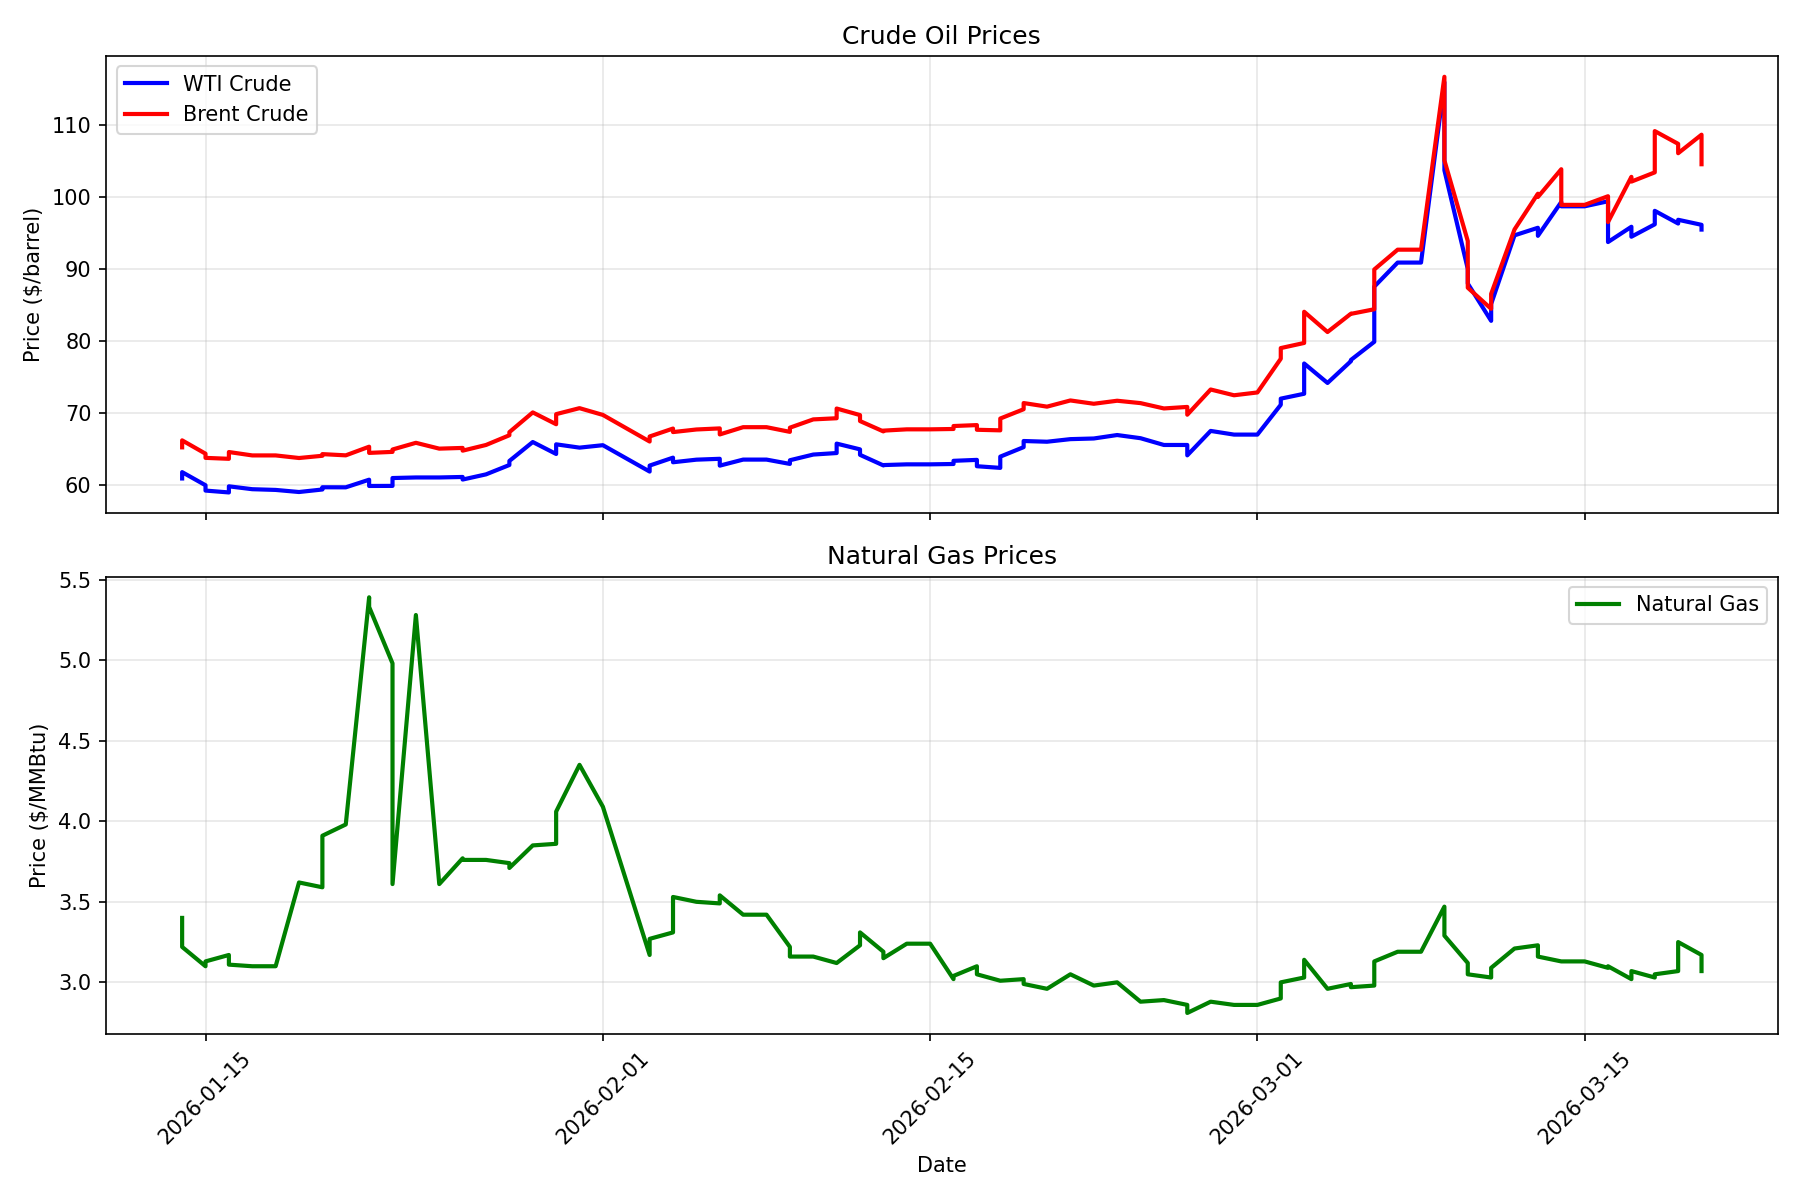
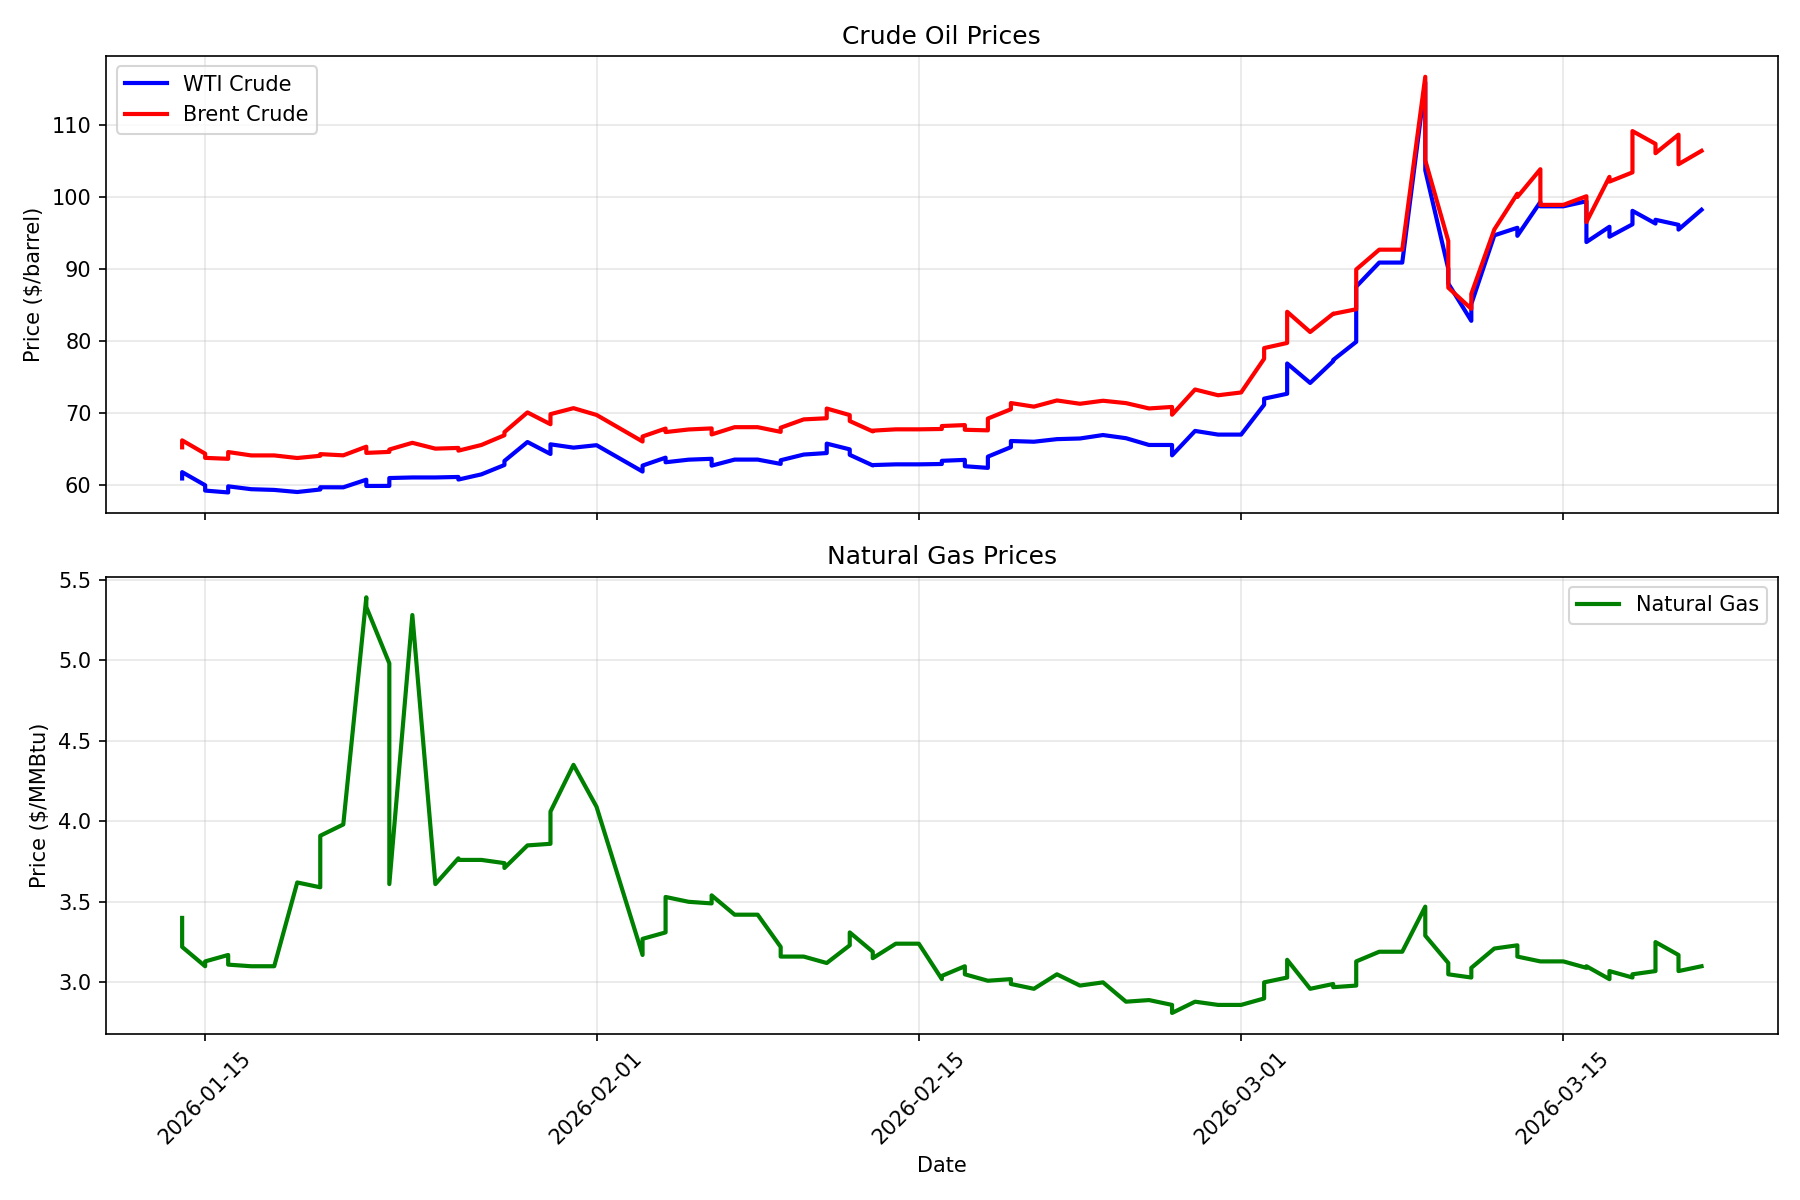
Daily price update: 2026-03-21

diff --git a/README.md b/README.md
@@ -2,29 +2,29 @@
 
 Automated daily tracking of chemical commodity prices and chemical company stocks.
 
-## Latest Prices (Updated: 2026-03-20)
+## Latest Prices (Updated: 2026-03-21)
 
 ### Energy Commodities
 
 | Commodity | Price | Change (24h) | Unit |
 |-----------|-------|--------------|------|
-| WTI Crude Oil | $95.48 | -0.66 (-0.69%) | $/barrel |
-| Brent Crude Oil | $104.55 | -4.10 (-3.77%) | $/barrel |
-| Natural Gas | $3.07 | -0.10 (-3.19%) | $/MMBtu |
-| Heating Oil | $4.08 | -0.27 (-6.13%) | $/gallon |
+| WTI Crude Oil | $98.23 | +2.09 (+2.17%) | $/barrel |
+| Brent Crude Oil | $106.41 | -2.24 (-2.06%) | $/barrel |
+| Natural Gas | $3.10 | -0.07 (-2.24%) | $/MMBtu |
+| Heating Oil | $4.24 | -0.10 (-2.29%) | $/gallon |
 
 ### Chemical Company Stocks
 
 | Company | Ticker | Price | Change (24h) |
 |---------|--------|-------|--------------|
-| Dow Inc. | DOW | $37.06 | -0.43 (-1.15%) |
-| LyondellBasell | LYB | $73.78 | -0.79 (-1.07%) |
-| DuPont | DD | $42.90 | -0.62 (-1.42%) |
-| Air Products | APD | $282.72 | -1.43 (-0.50%) |
-| Linde | LIN | $491.36 | +1.56 (+0.32%) |
-| Eastman Chemical | EMN | $67.22 | -1.54 (-2.24%) |
-| Celanese | CE | $58.66 | -1.67 (-2.77%) |
-| Huntsman | HUN | $10.86 | -0.65 (-5.60%) |
+| Dow Inc. | DOW | $36.65 | -0.84 (-2.24%) |
+| LyondellBasell | LYB | $73.32 | -1.25 (-1.68%) |
+| DuPont | DD | $42.44 | -1.08 (-2.48%) |
+| Air Products | APD | $281.01 | -3.14 (-1.11%) |
+| Linde | LIN | $488.15 | -1.65 (-0.34%) |
+| Eastman Chemical | EMN | $65.33 | -3.43 (-4.99%) |
+| Celanese | CE | $56.95 | -3.38 (-5.60%) |
+| Huntsman | HUN | $10.41 | -1.10 (-9.56%) |
 
 ## Data Sources
 

diff --git a/logs/update_log.md b/logs/update_log.md
@@ -123,3 +123,4 @@ Daily updates to the chemical engineering data repository.
 - **2026-03-19 14:16:38**: Updated 4 energy prices, 8 stocks, 0 FRED series
 - **2026-03-20 00:00:07**: Updated 4 energy prices, 8 stocks, 0 FRED series
 - **2026-03-20 14:14:38**: Updated 4 energy prices, 8 stocks, 0 FRED series
+- **2026-03-21 14:05:29**: Updated 4 energy prices, 8 stocks, 0 FRED series
